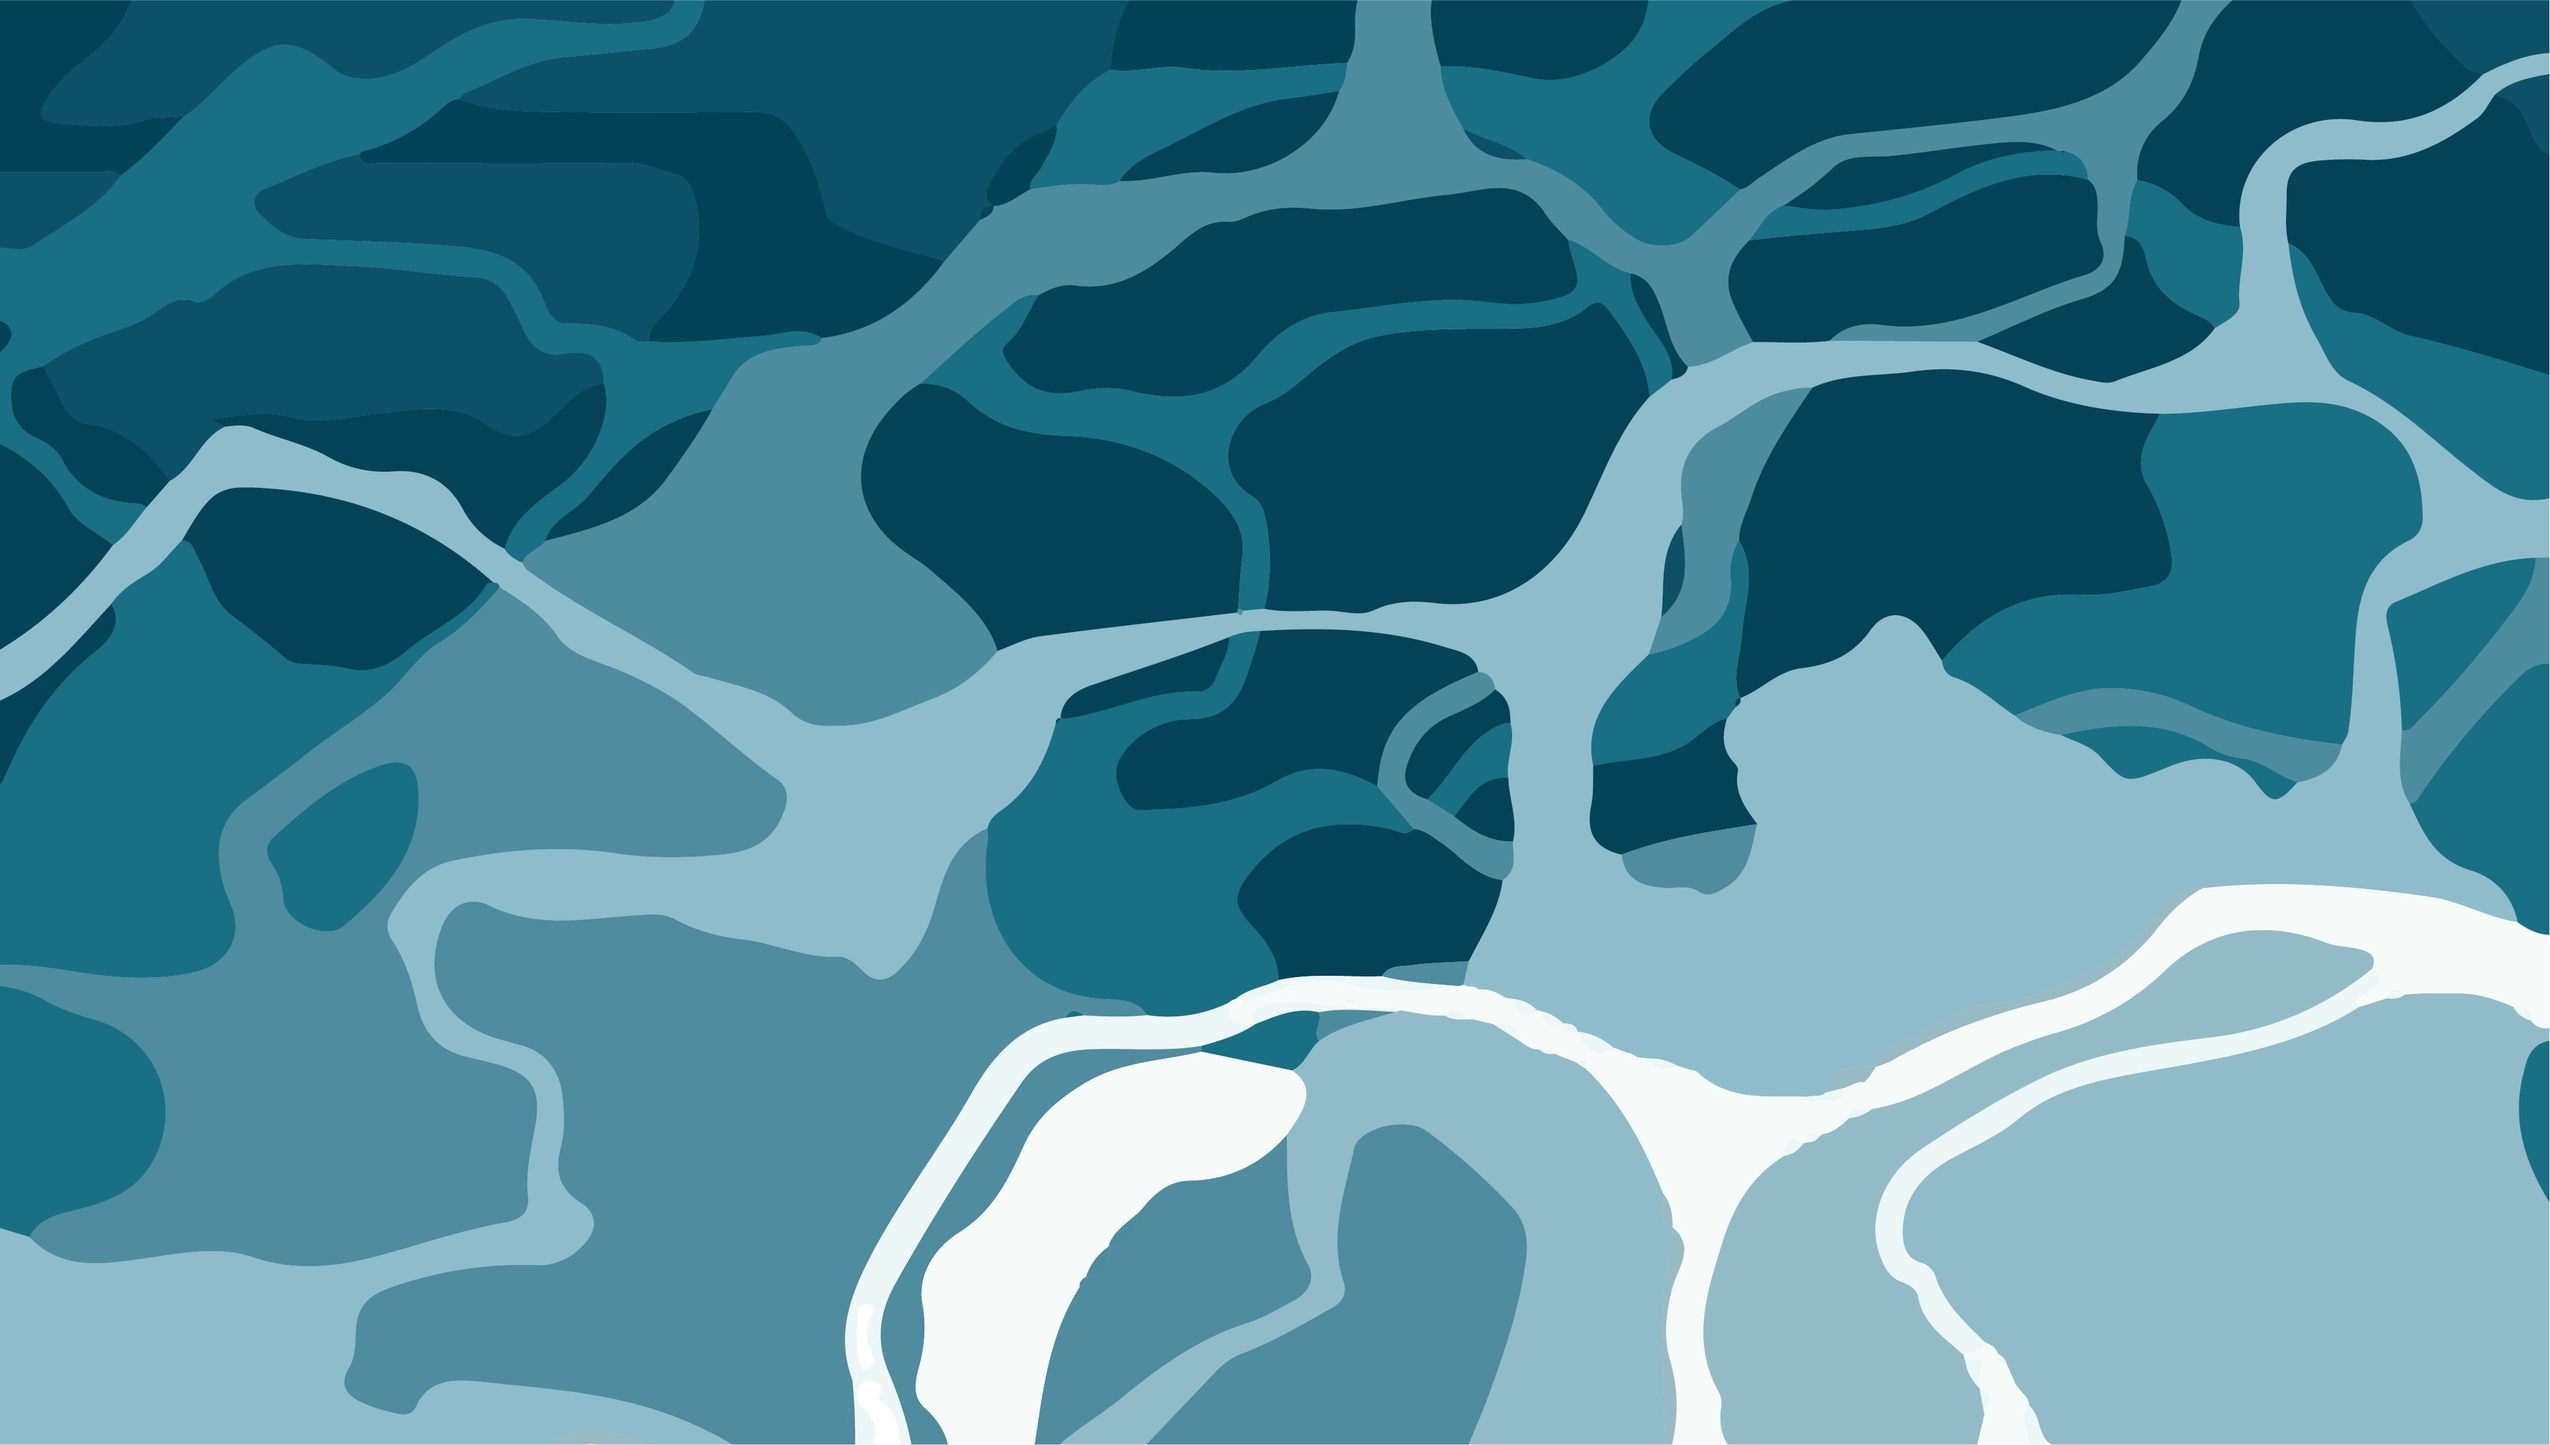
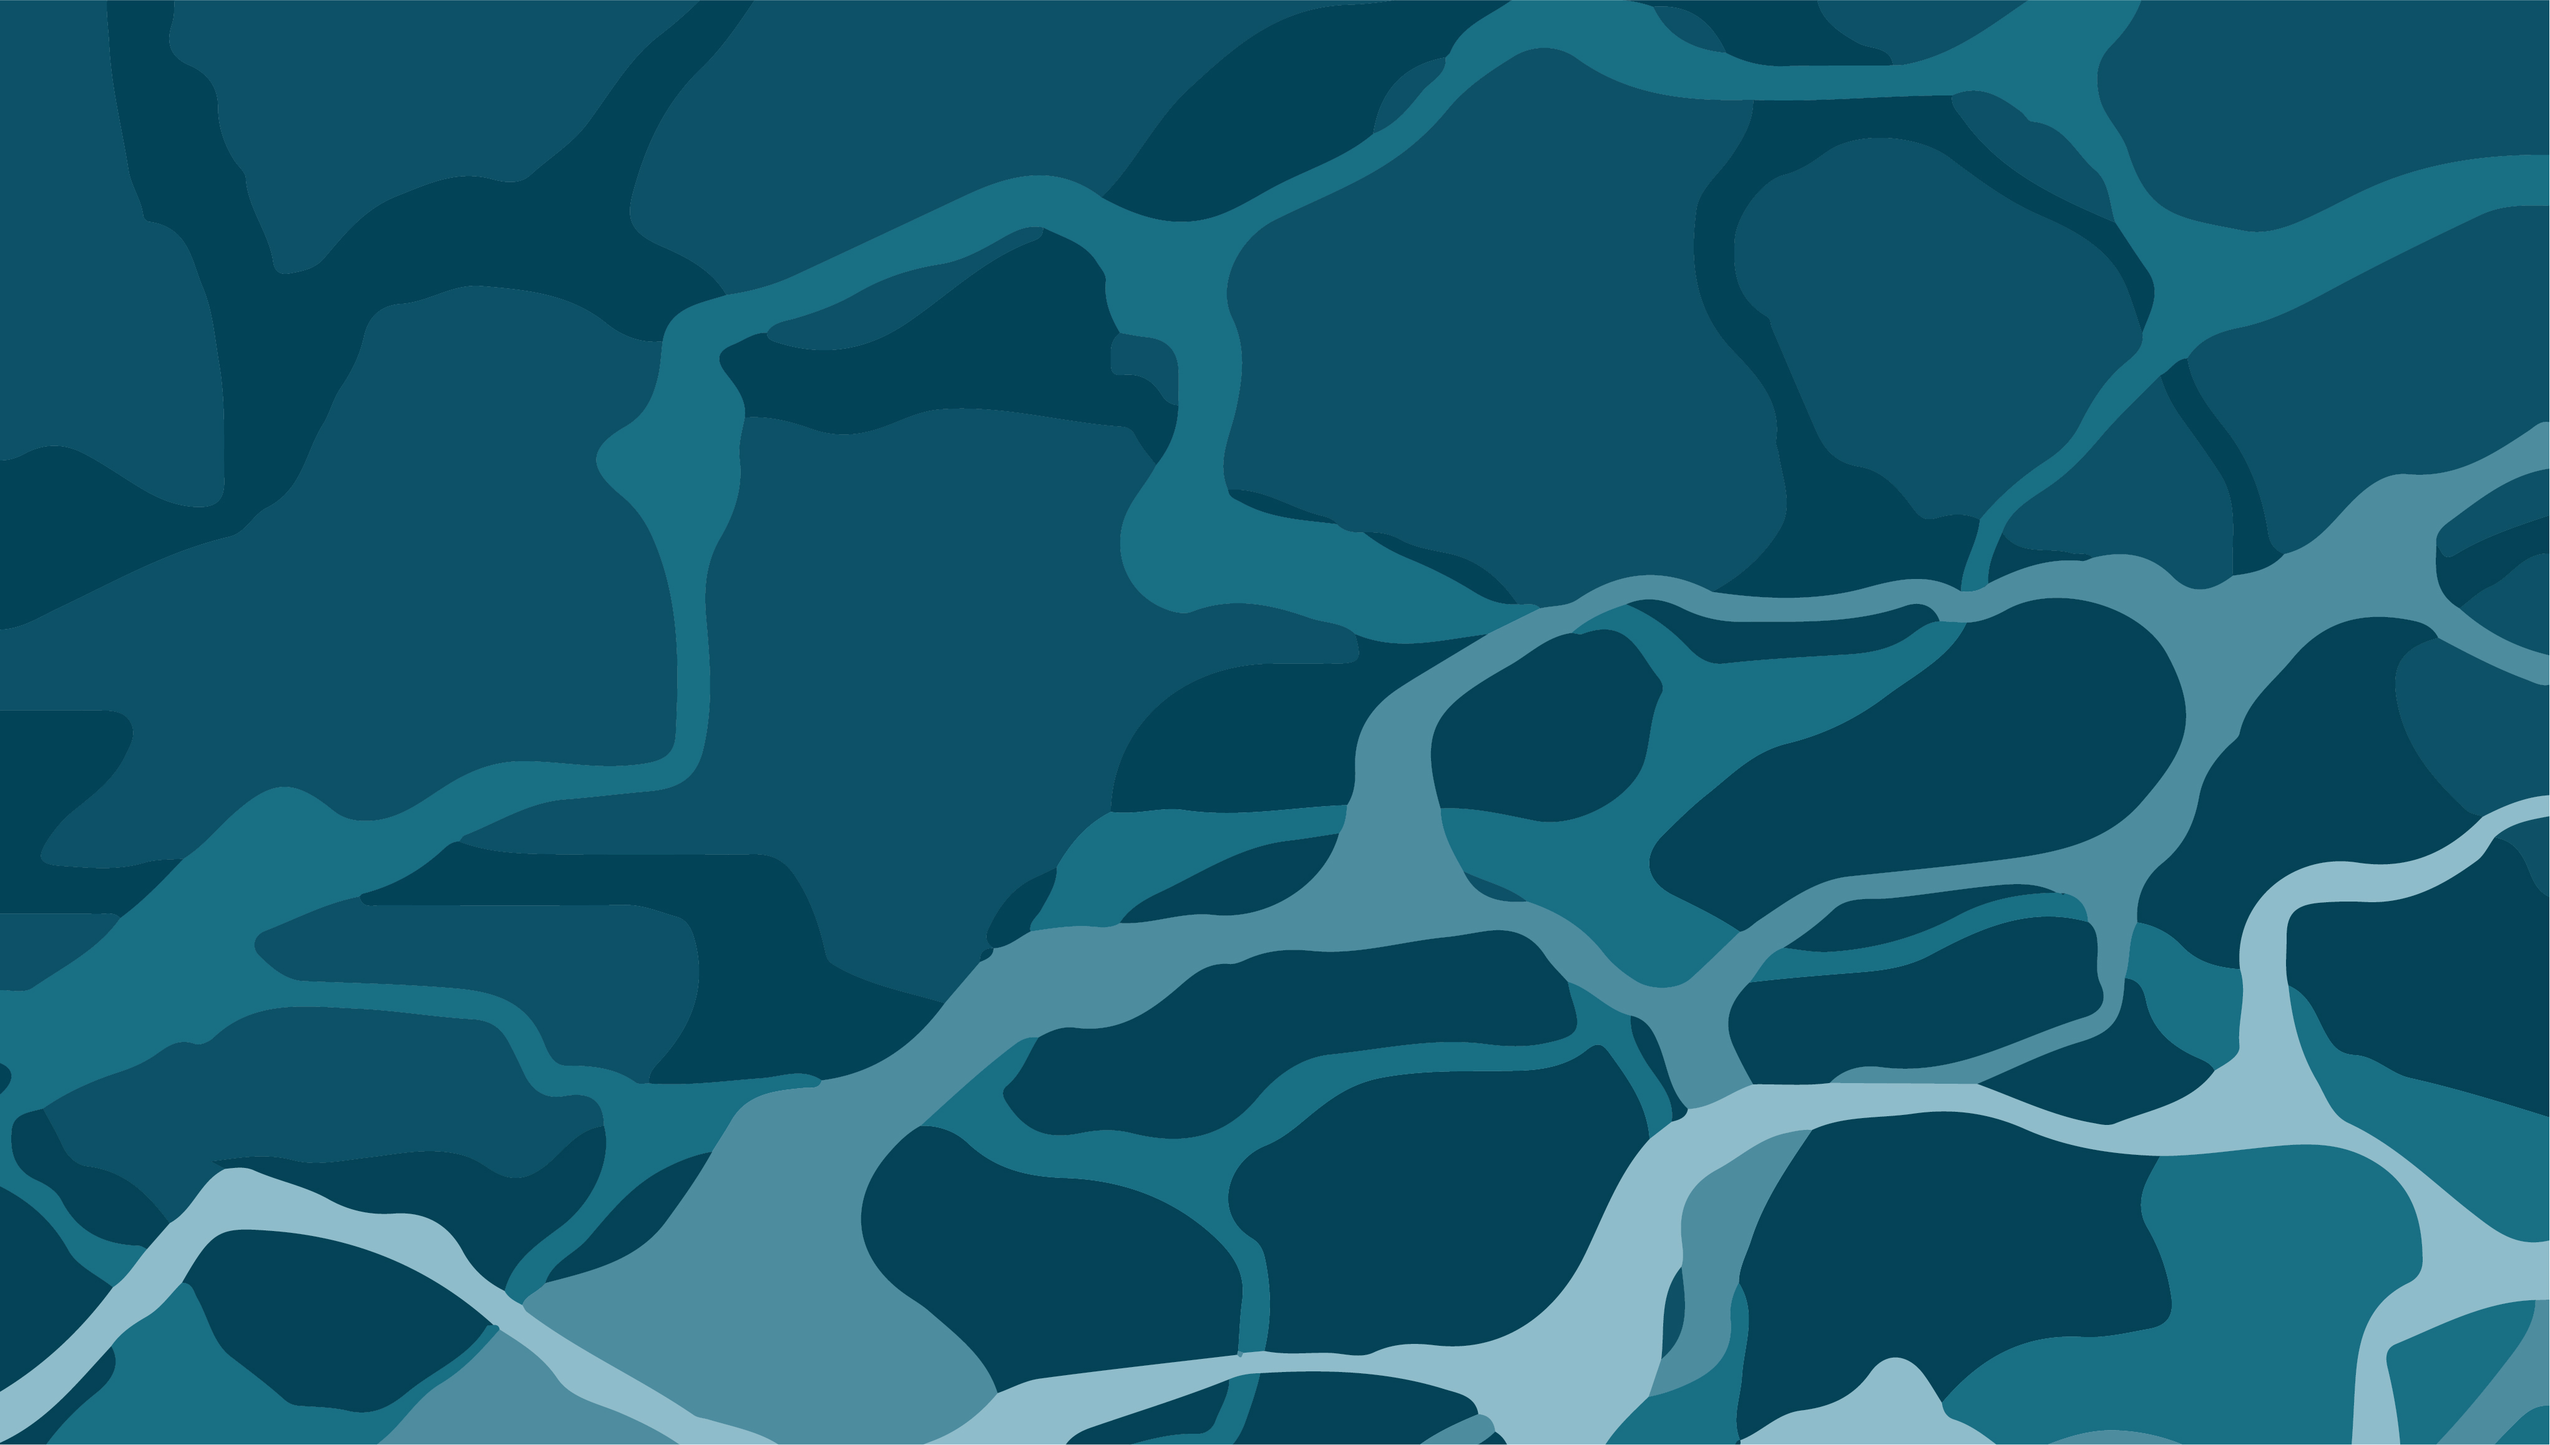
.

diff --git a/website/styles/styles.css b/website/styles/styles.css
@@ -10,10 +10,43 @@ body {
 }
 
 .index-body {
-    background-image: url('../images/sfondo_mart.jpg'); /* percorso dell'immagine */
     background-size: cover; /* adatta l'immagine alla dimensione del body */
     background-position: center; /* posiziona l'immagine al centro */
     background-repeat: no-repeat; /* impedisce la ripetizione dell'immagine */
+}
+
+.main-section {
+    width: 100%;
+    height: 100vh; /* Altezza del viewport */
+    background: url('../images/sfondo_mart.jpg') no-repeat center center/cover;
+    display: flex;
+    flex-direction: column;
+    justify-content: center;
+    position: relative;
+    align-items: center;
+    color: white; /* Colore del testo bianco per contrastare con l'immagine di sfondo */
+    text-align: center;
+}
+
+.main-section::before {
+    content: '';
+    position: absolute;
+    top: 0;
+    left: -100%;
+    width: 200%;
+    height: 100%;
+    background: rgba(10, 29, 86, 0.466); /* Overlay color and opacity */
+    z-index: 0;
+}
+
+.main-section h1 {
+    font-size: 3em;
+    margin: 0;
+}
+
+.main-section p {
+    font-size: 1.5em;
+    margin: 10px 0 0;
 }
 
 .container {
@@ -73,7 +106,7 @@ header nav .nav-links li a {
 }
 
 main {
-    background-color: #1A3B71   ;
+    background-color: #1A3B71;
     flex-grow: 1;
     display: flex;
     flex-direction: column; /* Ensure the sections stack vertically */

diff --git a/website/index.html b/website/index.html
@@ -40,7 +40,7 @@
                 <li><img src="images/about_icon.png" alt="About Icon"><a href="#">About</a></li>
             </ul>
         </nav>
-        <main>
+        <main class="main-section">
             <div class="wave-container">
                 <div class="wave">
                     <div class="circle"><a href="workshop.html"><img src="images/workshop-icon.png" alt="Workshop Icon"></a></div>
